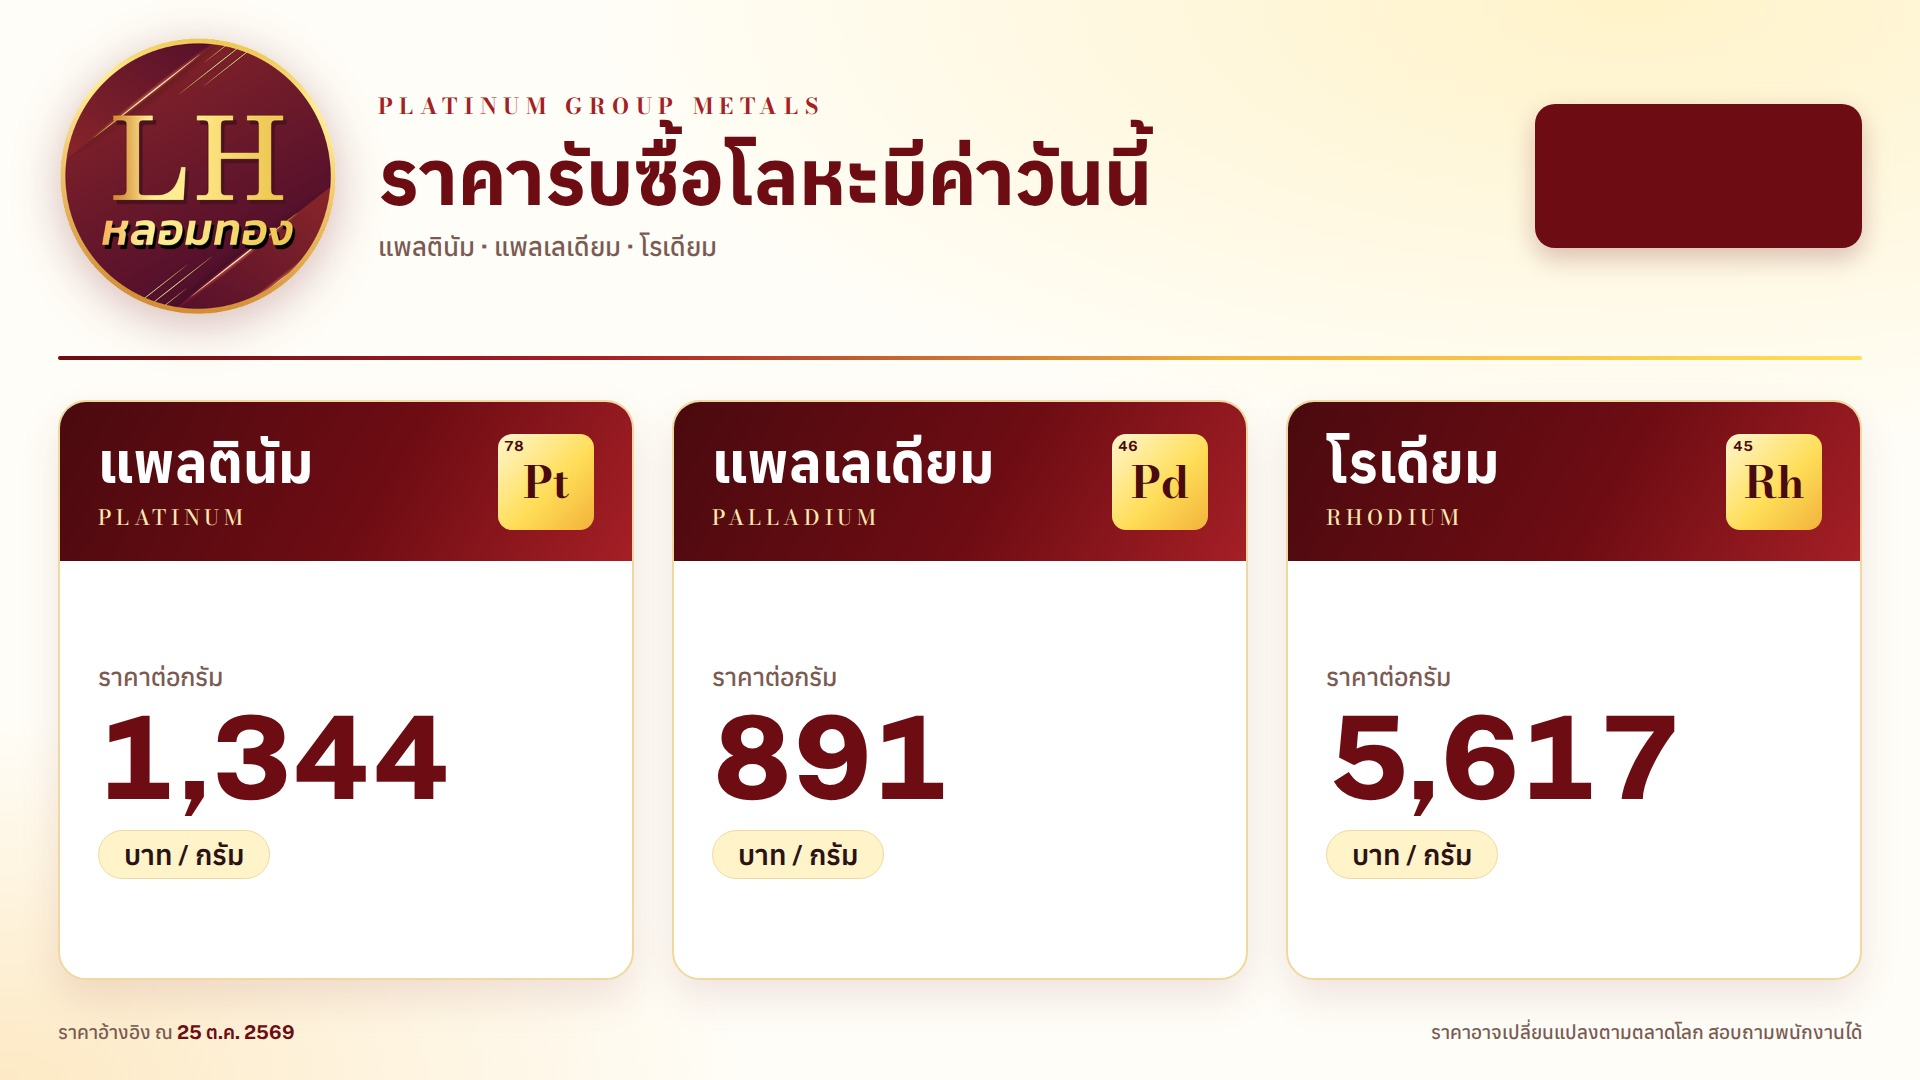
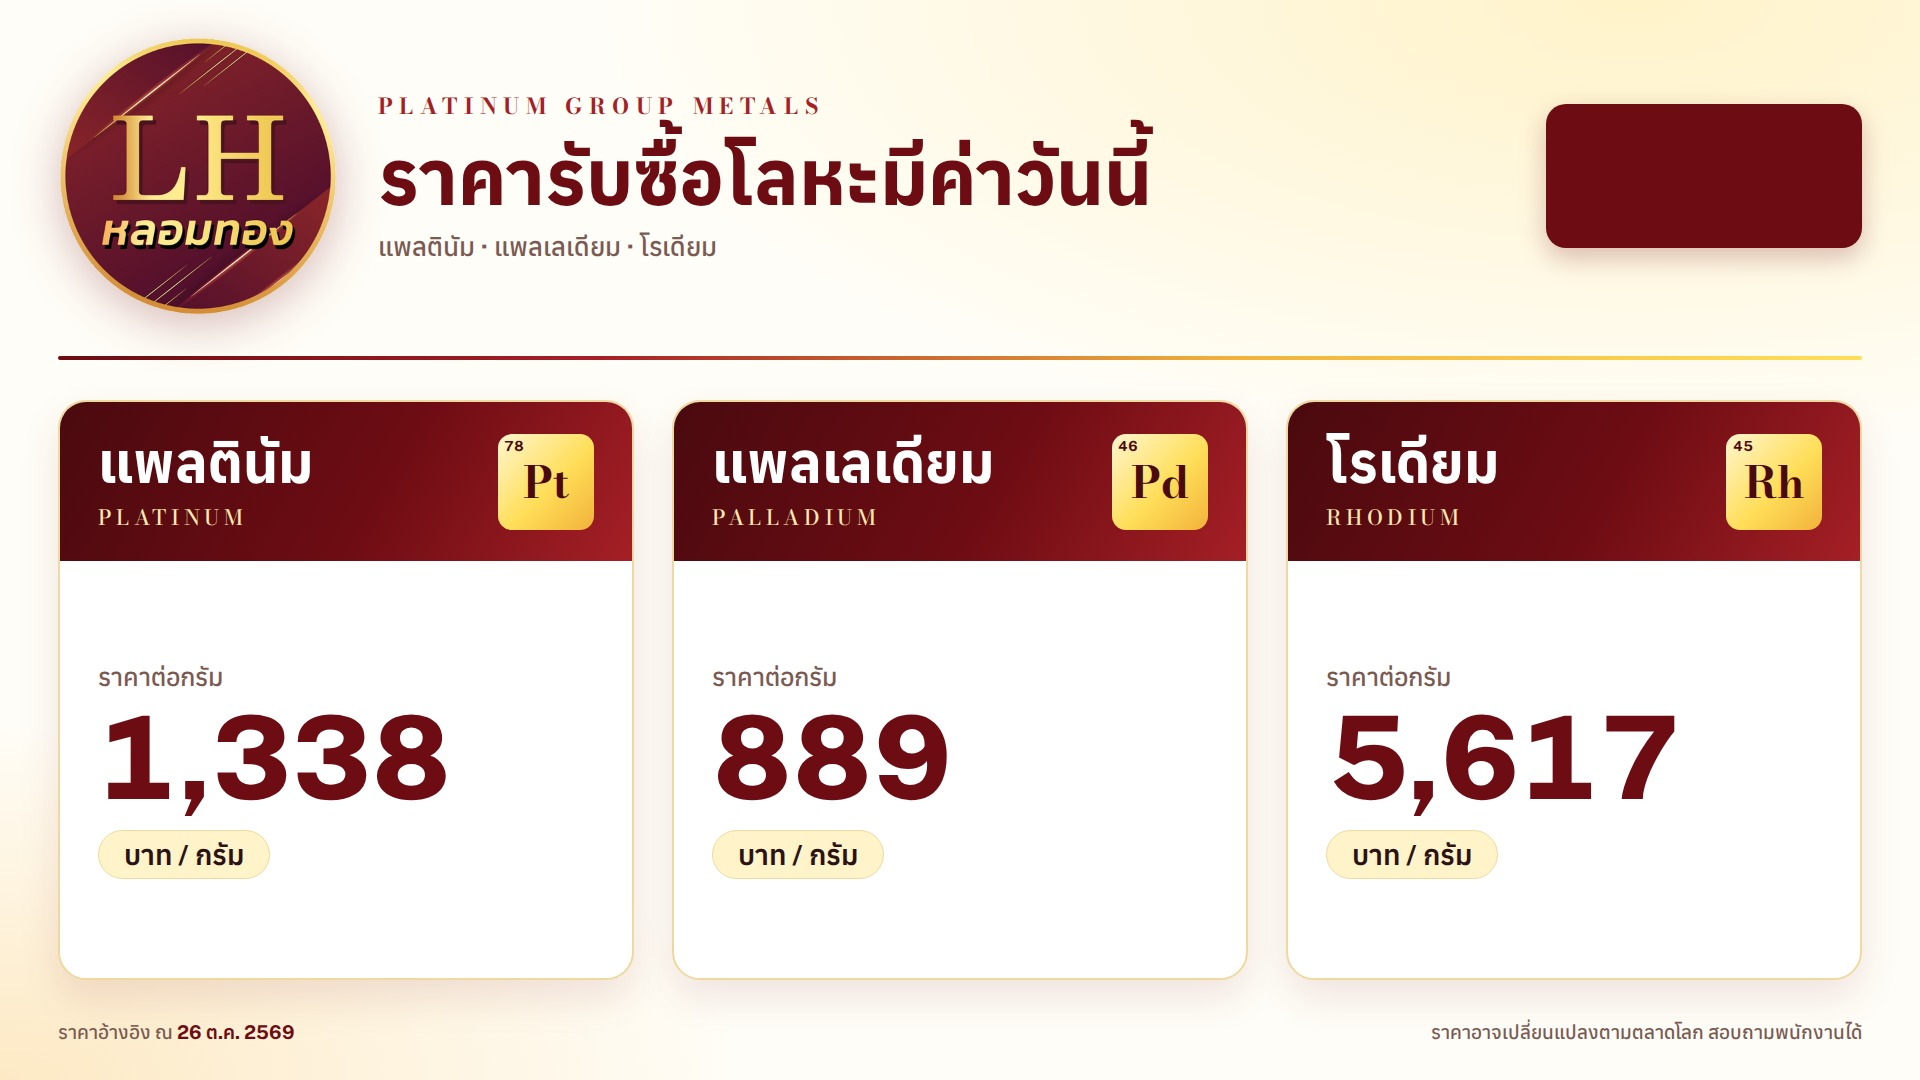
Update prices 2026-10-26

Changed region(s): [[0.1562, 0.6417, 0.25, 0.7639], [0.4062, 0.6722, 0.5, 0.7333], [0.7812, 0.0917, 0.8125, 0.2444]]

diff --git a/board.html b/board.html
@@ -211,14 +211,14 @@ html{-webkit-text-size-adjust:100%;text-size-adjust:100%}
      ราคาแต่ละเกรด = ราคาเงินหลังหัก × เปอร์เซ็นต์ (99.99% ใช้ราคาเต็ม)
    showSilver = เปิด/ปิดหน้าราคาเงิน, rotateSeconds = เปลี่ยนหน้าทุกกี่วินาที */
 const CONFIG = {
-  asOf: "25 ต.ค. 2569",
+  asOf: "26 ต.ค. 2569",
   fx: 33.76,
   discount: 0.20,
   rotateSeconds: 15,
   showSilver: true,
   metals: [
-    { th:"แพลตินัม",  en:"Platinum",  sym:"Pt", z:78, usdPerGram:49.7693 },
-    { th:"แพลเลเดียม", en:"Palladium", sym:"Pd", z:46, usdPerGram:32.9866 },
+    { th:"แพลตินัม",  en:"Platinum",  sym:"Pt", z:78, usdPerGram:49.5443 },
+    { th:"แพลเลเดียม", en:"Palladium", sym:"Pd", z:46, usdPerGram:32.9223 },
     { th:"โรเดียม",    en:"Rhodium",   sym:"Rh", z:45, usdPerGram:277.3, discount:0.40 }
   ],
   silver: { pricePerKg: 55000, grades: [95, 92.5, 90, 70, 50, 30] }
